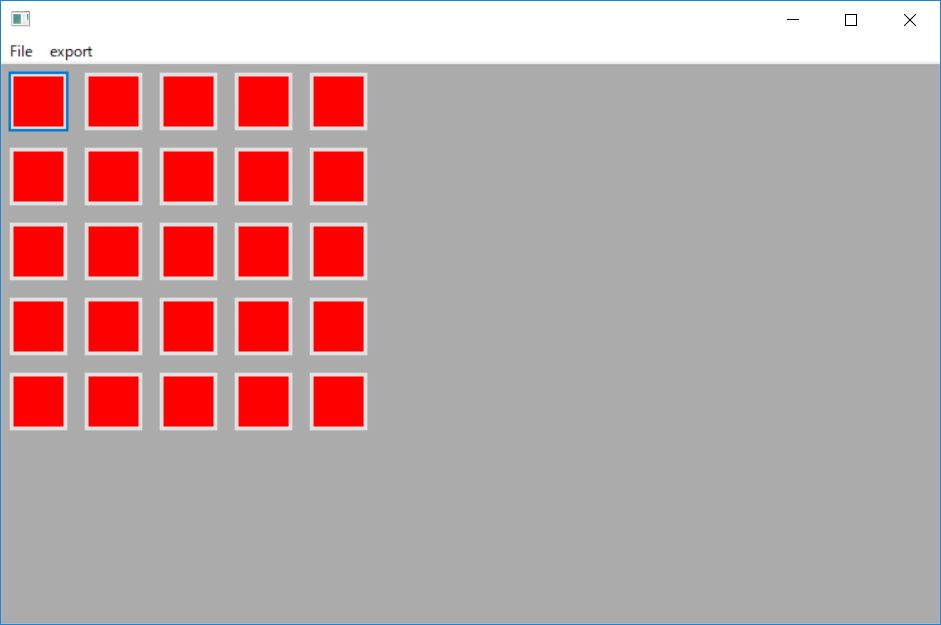
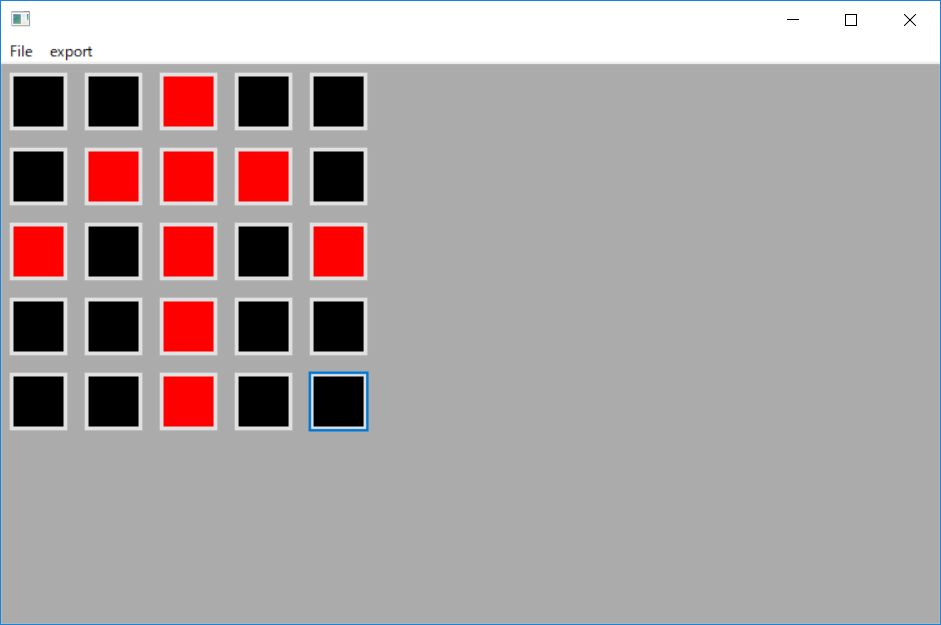
modify README.md

diff --git a/README.md b/README.md
@@ -1,24 +1,30 @@
 # microbitAnim
 
+"Microbit Anim" is a tool that create scroll animation python code. 
 
-![window](img/image000.jpg)
+# How to Use
+1. Download https://wxpython.org/
+2. git clone and open "microbitAnim" folder on Visual Sutudio Code.
+3. Run Debug.
+4. Create a image.
+5. Click "Export -> Python" menu, and save Python code.
+![microbit anim](img/image000.jpg)
 
 ```python
 from microbit import *
-anim00 = Image("66066:60606:06660:60606:66066")
-anim01 = Image("00000:66066:60606:06660:60606")
-anim02 = Image("00000:00000:66066:60606:06660")
-anim03 = Image("00000:00000:00000:66066:60606")
-anim04 = Image("00000:00000:00000:00000:66066")
+anim00 = Image("00600:06660:60606:00600:00600")
+anim01 = Image("00000:00600:06660:60606:00600")
+anim02 = Image("00000:00000:00600:06660:60606")
+anim03 = Image("00000:00000:00000:00600:06660")
+anim04 = Image("00000:00000:00000:00000:00600")
 anim05 = Image("00000:00000:00000:00000:00000")
-anim06 = Image("66066:00000:00000:00000:00000")
-anim07 = Image("60606:66066:00000:00000:00000")
-anim08 = Image("06660:60606:66066:00000:00000")
-anim09 = Image("60606:06660:60606:66066:00000")
+anim06 = Image("00600:00000:00000:00000:00000")
+anim07 = Image("00600:00600:00000:00000:00000")
+anim08 = Image("60606:00600:00600:00000:00000")
+anim09 = Image("06660:60606:00600:00600:00000")
 anim = [
     anim00, anim01, anim02, anim03, anim04, anim05, anim06,
     anim07, anim08, anim09]
 while True:
     display.show(anim, delay=200)
-
 ```
